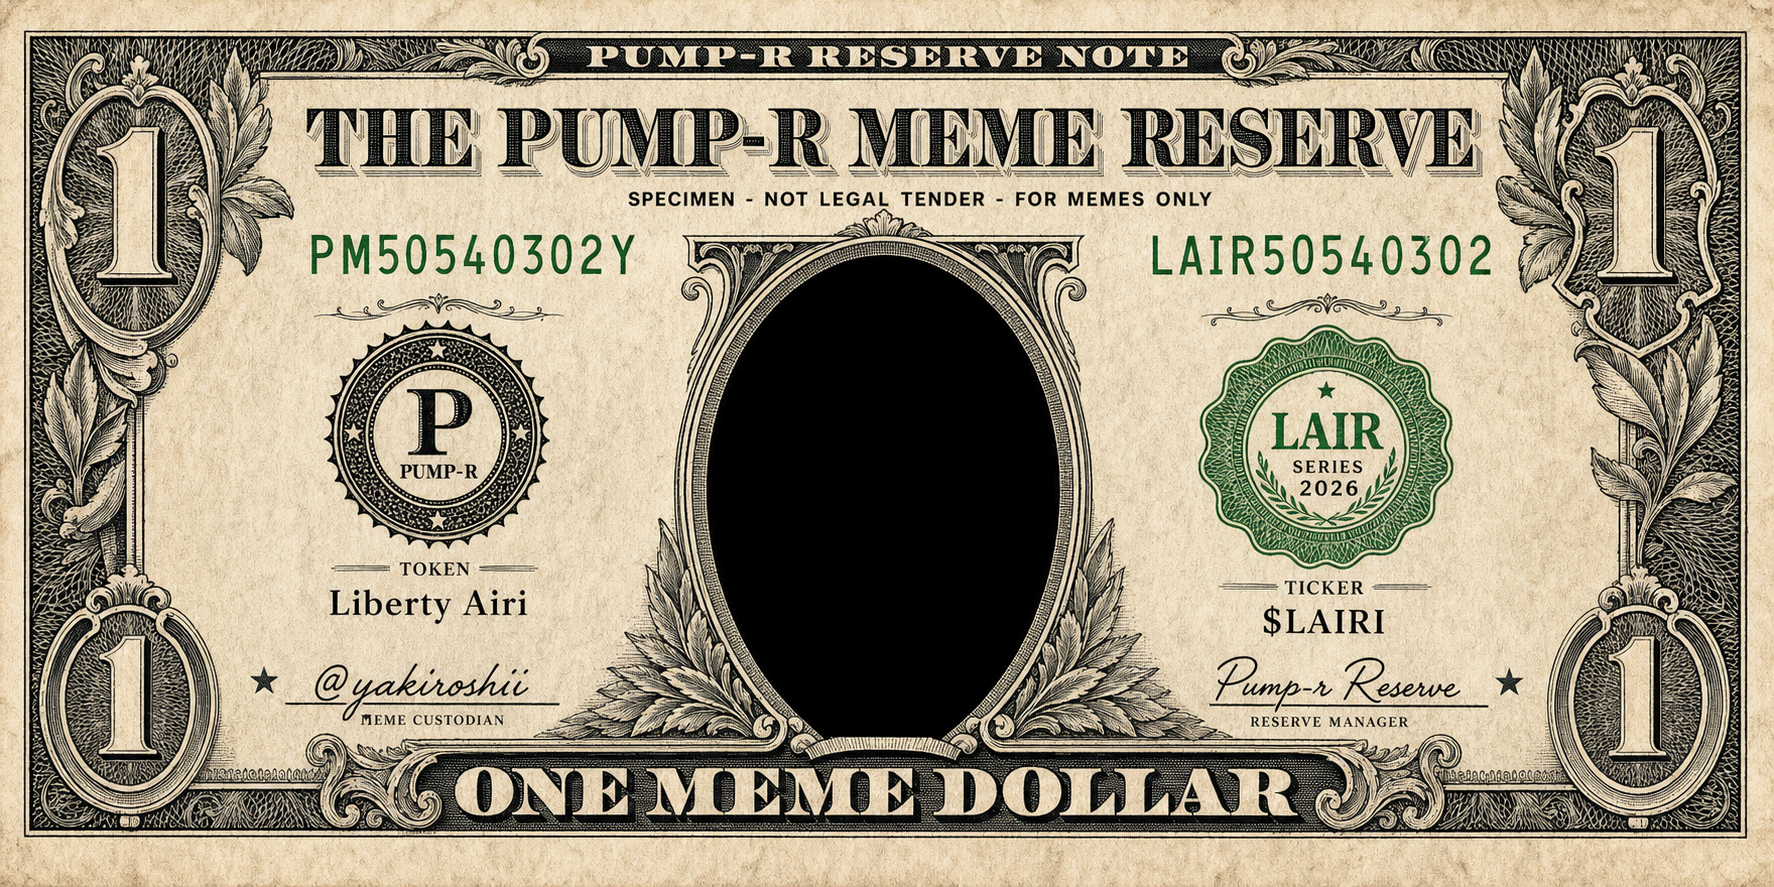
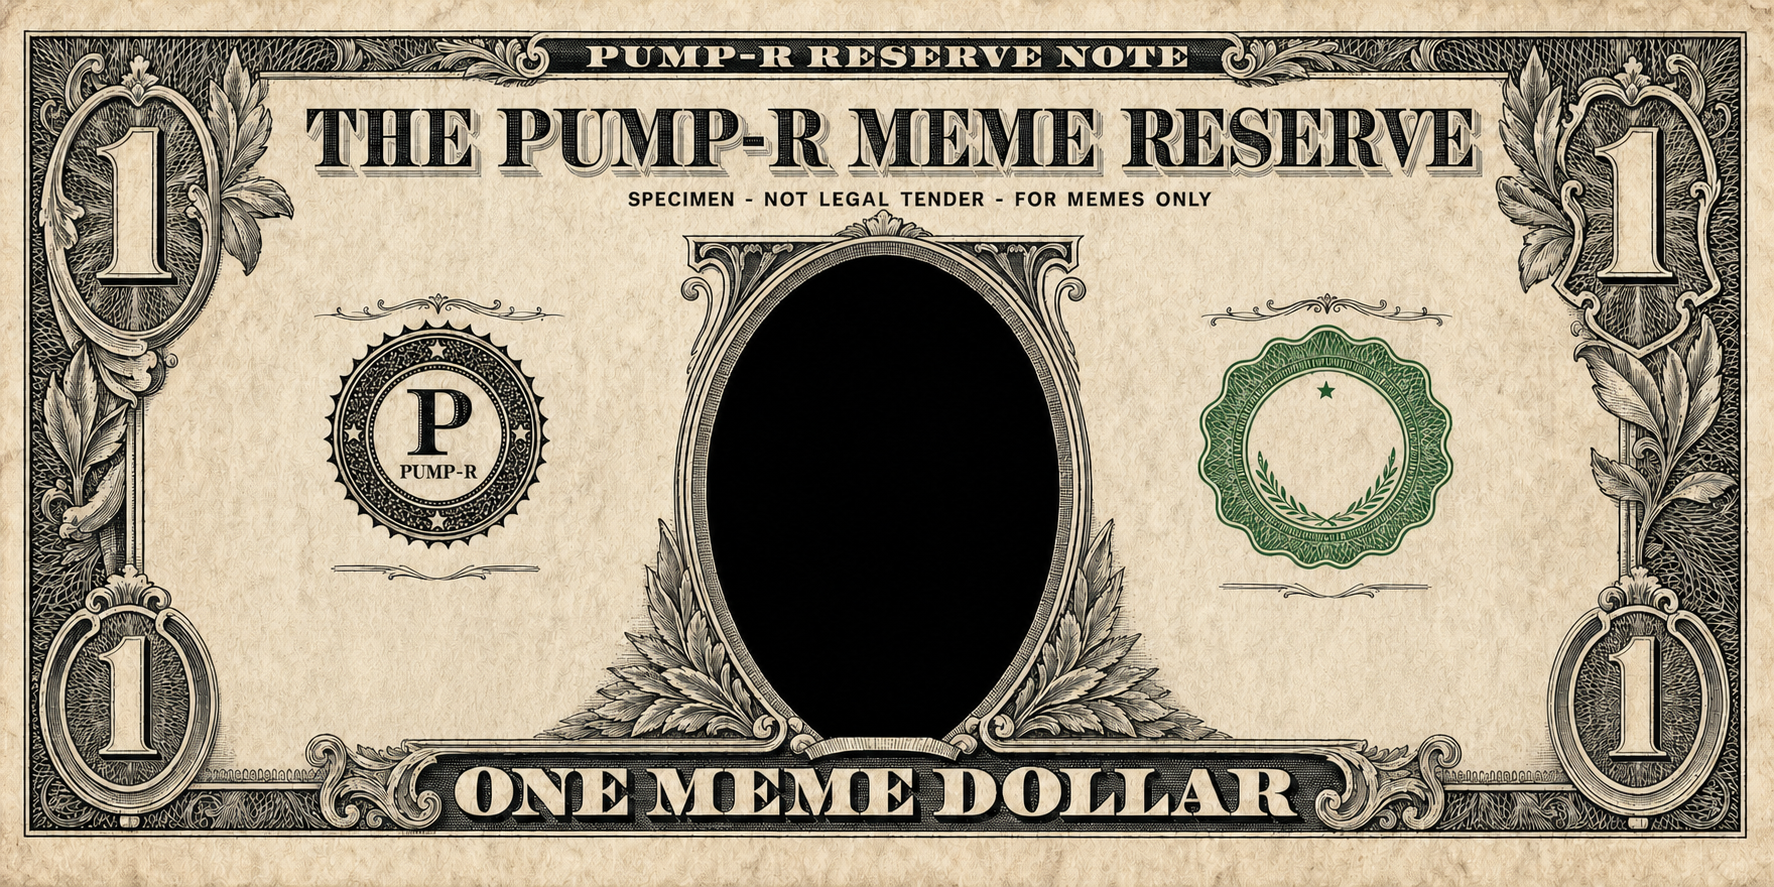
Make signed bill text engraved

Changed region(s): [[0.0, 0.0304, 0.9921, 0.9436], [0.186, 0.3348, 0.31, 0.7001]]

diff --git a/scripts/signed-bill-image.js b/scripts/signed-bill-image.js
@@ -106,19 +106,38 @@ function fitFontSize(value = "", base = 42, min = 24, maxChars = 18) {
   return Math.max(min, Math.floor(base * (maxChars / length)));
 }
 
-function fieldBackplate(x, y, width, height, opacity = 0.84) {
-  return `<rect x="${x}" y="${y}" width="${width}" height="${height}" rx="10" fill="#efe5c6" fill-opacity="${opacity}" stroke="#d4c7a5" stroke-opacity="0.38" stroke-width="1"/>`;
+function engravedText({
+  x,
+  y,
+  text,
+  anchor = "middle",
+  fill = "#17140d",
+  family = "Georgia, 'Times New Roman', serif",
+  size = 34,
+  weight = 800,
+  letterSpacing = 0,
+  fontStyle = "",
+  stroke = "#070805",
+  strokeWidth = 0.42,
+  opacity = 0.94
+}) {
+  const content = escapeXml(text);
+  const letterAttr = letterSpacing ? ` letter-spacing="${letterSpacing}"` : "";
+  const styleAttr = fontStyle ? ` font-style="${fontStyle}"` : "";
+  const base = `x="${x}" y="${y}" text-anchor="${anchor}" font-family="${family}" font-size="${size}" font-weight="${weight}"${letterAttr}${styleAttr}`;
+  return `
+    <text ${base} fill="#f3ecd4" fill-opacity="0.28" transform="translate(1.1 1.1)">${content}</text>
+    <text ${base} fill="${fill}" fill-opacity="${opacity}" stroke="${stroke}" stroke-opacity="0.2" stroke-width="${strokeWidth}" paint-order="stroke">${content}</text>
+    <text ${base} fill="none" stroke="#f4ecd1" stroke-opacity="0.18" stroke-width="0.55" transform="translate(-0.7 -0.7)">${content}</text>`;
 }
 
 function sealOverlay({ x, y, ticker }) {
   const mono = monogramFor("", ticker).slice(0, 4);
   return `
     <g transform="translate(${x} ${y})">
-      <circle cx="0" cy="0" r="98" fill="#efe5c6" fill-opacity="0.96" stroke="#12692b" stroke-width="8"/>
-      <circle cx="0" cy="0" r="80" fill="none" stroke="#12692b" stroke-width="3" stroke-dasharray="5 5"/>
-      <text x="0" y="-10" text-anchor="middle" fill="#12692b" font-family="Georgia, serif" font-size="${fitFontSize(mono, 46, 30, 4)}" font-weight="900">${escapeXml(mono)}</text>
-      <text x="0" y="28" text-anchor="middle" fill="#12692b" font-family="Georgia, serif" font-size="22" font-weight="800">SERIES</text>
-      <text x="0" y="58" text-anchor="middle" fill="#12692b" font-family="Georgia, serif" font-size="26" font-weight="900">2026</text>
+      ${engravedText({ x: 0, y: -2, text: mono, fill: "#176d32", stroke: "#0d3519", size: fitFontSize(mono, 48, 30, 4), weight: 900 })}
+      ${engravedText({ x: 0, y: 36, text: "SERIES", fill: "#176d32", stroke: "#0d3519", size: 20, weight: 900, letterSpacing: 1.4 })}
+      ${engravedText({ x: 0, y: 64, text: "2026", fill: "#176d32", stroke: "#0d3519", size: 24, weight: 900 })}
     </g>`;
 }
 
@@ -135,7 +154,7 @@ function buildSignedBillSvg(options = {}) {
   const sourceImageUrl = cleanText(options.sourceImageUrl || "", 500);
   const chain = chainLabel(launchpad);
   const hasPortrait = /^https?:\/\//i.test(sourceImageUrl);
-  const caLine = tokenAddress ? `CA ${tokenAddress}` : "CA pending issuance";
+  const caLine = tokenAddress ? `CA ${tokenAddress}` : "";
   const xIdLine = creatorId ? `X ID ${creatorId}` : `X ID @${creatorHandle || "unknown"}`;
   const leftSerial = serial.replace(/-/g, "").slice(0, 10) || "PUMPR0001";
   const rightSerial = `${leftSerial.slice(0, 6)}${ticker.slice(0, 4)}`.slice(0, 12);
@@ -143,46 +162,35 @@ function buildSignedBillSvg(options = {}) {
   const nameSize = fitFontSize(name, 42, 25, 17);
   const tickerSize = fitFontSize(`$${ticker}`, 44, 27, 10);
   const signatureSize = fitFontSize(signer, 42, 26, 15);
-  const caSize = fitFontSize(caLine, 24, 14, 24);
+  const caSize = fitFontSize(caLine, 22, 13, 24);
 
   return `<?xml version="1.0" encoding="UTF-8"?>
 <svg xmlns="http://www.w3.org/2000/svg" width="${BILL_TEMPLATE_WIDTH}" height="${BILL_TEMPLATE_HEIGHT}" viewBox="0 0 ${BILL_TEMPLATE_WIDTH} ${BILL_TEMPLATE_HEIGHT}">
   <defs>
     <clipPath id="portraitClip"><ellipse cx="887" cy="442" rx="184" ry="260"/></clipPath>
-    <filter id="inkShadow" x="-15%" y="-15%" width="130%" height="130%">
-      <feDropShadow dx="0" dy="1" stdDeviation="0.55" flood-color="#efe5c6" flood-opacity="0.55"/>
-    </filter>
   </defs>
 
   ${template ? `<image href="${template}" x="0" y="0" width="${BILL_TEMPLATE_WIDTH}" height="${BILL_TEMPLATE_HEIGHT}" preserveAspectRatio="none"/>` : `<rect width="${BILL_TEMPLATE_WIDTH}" height="${BILL_TEMPLATE_HEIGHT}" fill="#efe5c6"/>`}
   ${hasPortrait ? `<image href="${escapeXml(sourceImageUrl)}" x="703" y="257" width="368" height="520" preserveAspectRatio="xMidYMid slice" clip-path="url(#portraitClip)"/>` : ""}
 
-  <g font-family="Georgia, 'Times New Roman', serif" filter="url(#inkShadow)">
-    ${fieldBackplate(296, 222, 360, 70, 0.72)}
-    <text x="476" y="273" text-anchor="middle" fill="#146b2d" font-family="Courier New, monospace" font-size="46" font-weight="800" letter-spacing="4">${escapeXml(leftSerial)}</text>
-
-    ${fieldBackplate(1118, 222, 388, 70, 0.72)}
-    <text x="1312" y="273" text-anchor="middle" fill="#146b2d" font-family="Courier New, monospace" font-size="44" font-weight="800" letter-spacing="4">${escapeXml(rightSerial)}</text>
+  <g font-family="Georgia, 'Times New Roman', serif">
+    ${engravedText({ x: 472, y: 268, text: leftSerial, fill: "#146b2d", stroke: "#092512", family: "Courier New, monospace", size: 46, weight: 800, letterSpacing: 4 })}
+    ${engravedText({ x: 1312, y: 268, text: rightSerial, fill: "#146b2d", stroke: "#092512", family: "Courier New, monospace", size: 44, weight: 800, letterSpacing: 4 })}
 
     ${sealOverlay({ x: 1328, y: 457, ticker })}
 
-    ${fieldBackplate(282, 566, 430, 150, 0.96)}
-    <text x="497" y="628" text-anchor="middle" fill="#11170d" font-size="${nameSize}" font-weight="700">${escapeXml(name)}</text>
-    <text x="497" y="686" text-anchor="middle" fill="#11170d" font-family="Arial Black, Arial, sans-serif" font-size="${tickerSize}" font-weight="900">$${escapeXml(ticker)}</text>
+    ${engravedText({ x: 474, y: 606, text: name, fill: "#15120d", stroke: "#050504", size: nameSize, weight: 800 })}
+    ${engravedText({ x: 474, y: 662, text: `$${ticker}`, fill: "#15120d", stroke: "#050504", family: "Arial Black, Arial, sans-serif", size: tickerSize, weight: 900 })}
 
-    ${fieldBackplate(1184, 580, 356, 122, 0.96)}
-    <text x="1362" y="632" text-anchor="middle" fill="#11170d" font-family="Arial Black, Arial, sans-serif" font-size="${tickerSize}" font-weight="900">$${escapeXml(ticker)}</text>
-    <text x="1362" y="678" text-anchor="middle" fill="#11170d" font-family="Arial, sans-serif" font-size="20" font-weight="800">${escapeXml(chain)}</text>
+    ${engravedText({ x: 1360, y: 606, text: `$${ticker}`, fill: "#15120d", stroke: "#050504", family: "Arial Black, Arial, sans-serif", size: tickerSize, weight: 900 })}
+    ${engravedText({ x: 1360, y: 650, text: chain, fill: "#15120d", stroke: "#050504", family: "Arial, sans-serif", size: 20, weight: 800 })}
 
-    ${fieldBackplate(296, 704, 392, 88, 0.96)}
-    <text x="492" y="760" text-anchor="middle" fill="#10170d" font-family="Brush Script MT, Segoe Script, cursive" font-size="${signatureSize}">${escapeXml(signer)}</text>
+    ${engravedText({ x: 458, y: 706, text: signer, fill: "#15120d", stroke: "#050504", family: "Brush Script MT, Segoe Script, cursive", size: signatureSize, weight: 400 })}
 
-    ${fieldBackplate(1190, 704, 392, 88, 0.96)}
-    <text x="1386" y="760" text-anchor="middle" fill="#10170d" font-family="Brush Script MT, Segoe Script, cursive" font-size="42">Pump-r Reserve</text>
+    ${engravedText({ x: 1354, y: 704, text: "Pump-r Reserve", fill: "#15120d", stroke: "#050504", family: "Brush Script MT, Segoe Script, cursive", size: 42, weight: 400 })}
 
-    ${fieldBackplate(704, 790, 466, 62, 0.96)}
-    <text x="937" y="826" text-anchor="middle" fill="#11170d" font-family="Arial, sans-serif" font-size="${caSize}" font-weight="800">${escapeXml(caLine)}</text>
-    <text x="937" y="850" text-anchor="middle" fill="#11170d" font-family="Georgia, serif" font-size="16" font-style="italic">SPECIMEN - ${escapeXml(description)} - ${escapeXml(xIdLine)}</text>
+    ${caLine ? engravedText({ x: 930, y: 846, text: caLine, fill: "#15120d", stroke: "#050504", family: "Arial, sans-serif", size: caSize, weight: 800, opacity: 0.82 }) : ""}
+    ${engravedText({ x: 930, y: 864, text: `SPECIMEN - ${description} - ${xIdLine}`, fill: "#15120d", stroke: "#050504", family: "Georgia, serif", size: 14, weight: 500, fontStyle: "italic", opacity: 0.68 })}
   </g>
 </svg>`;
 }